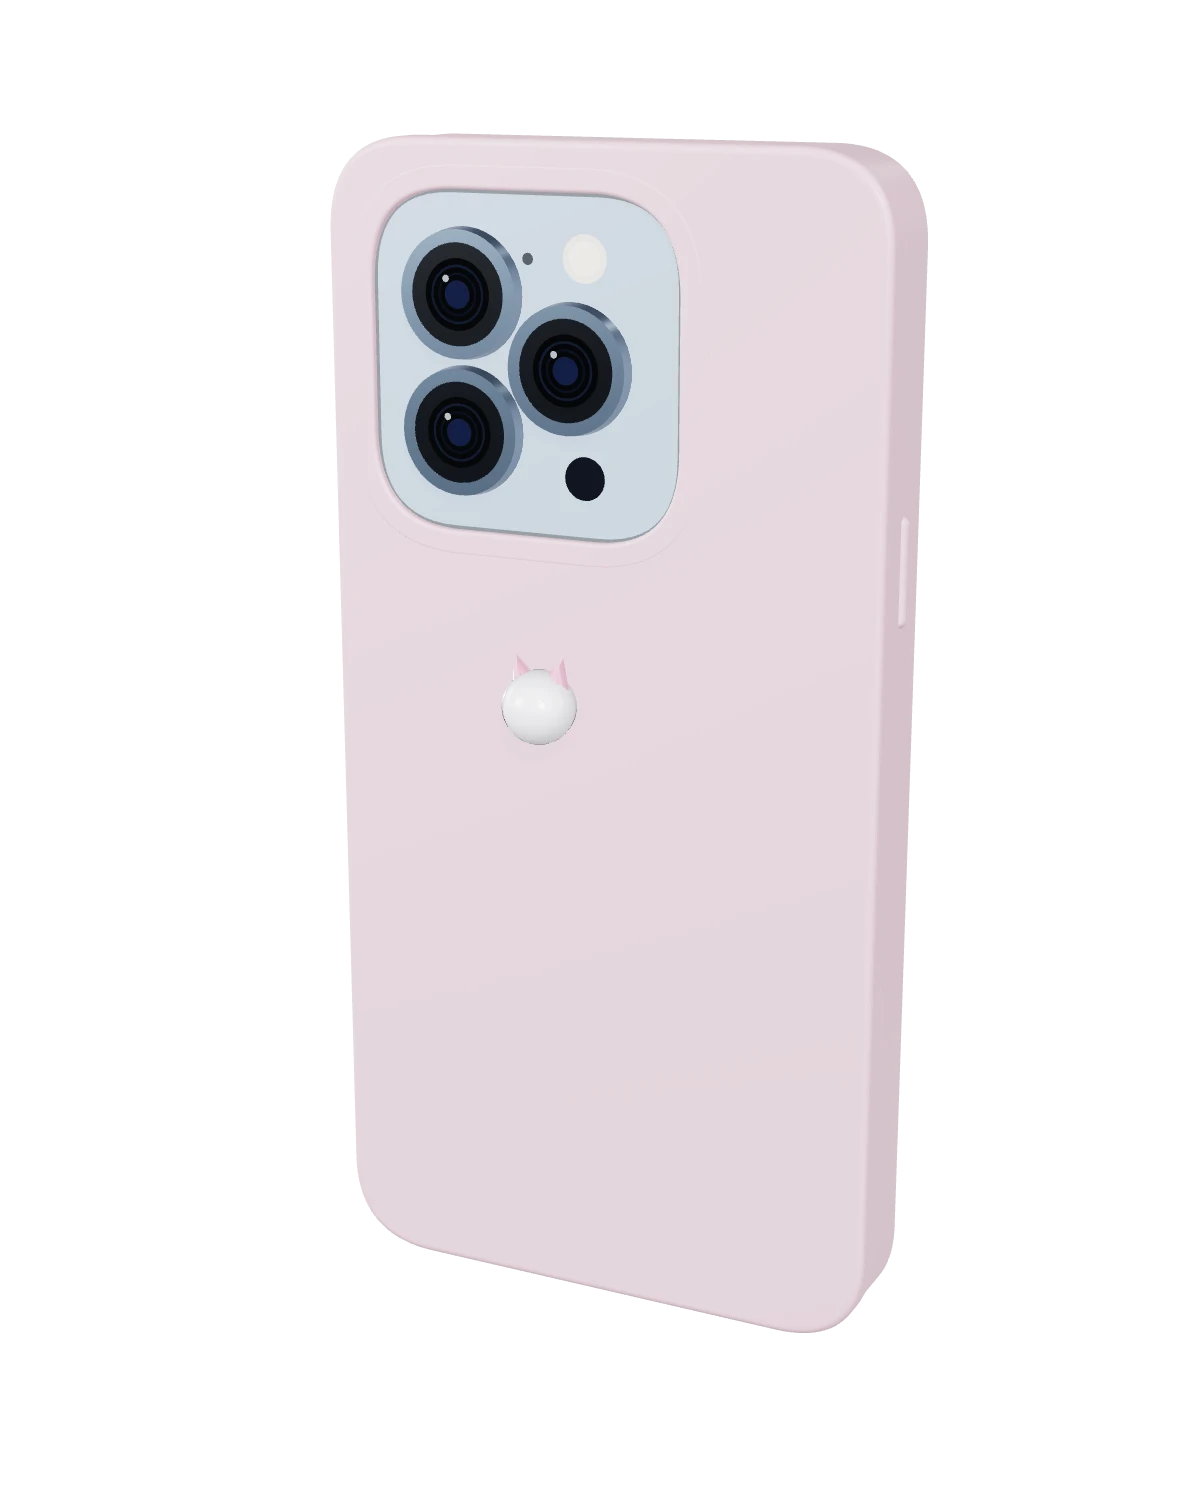
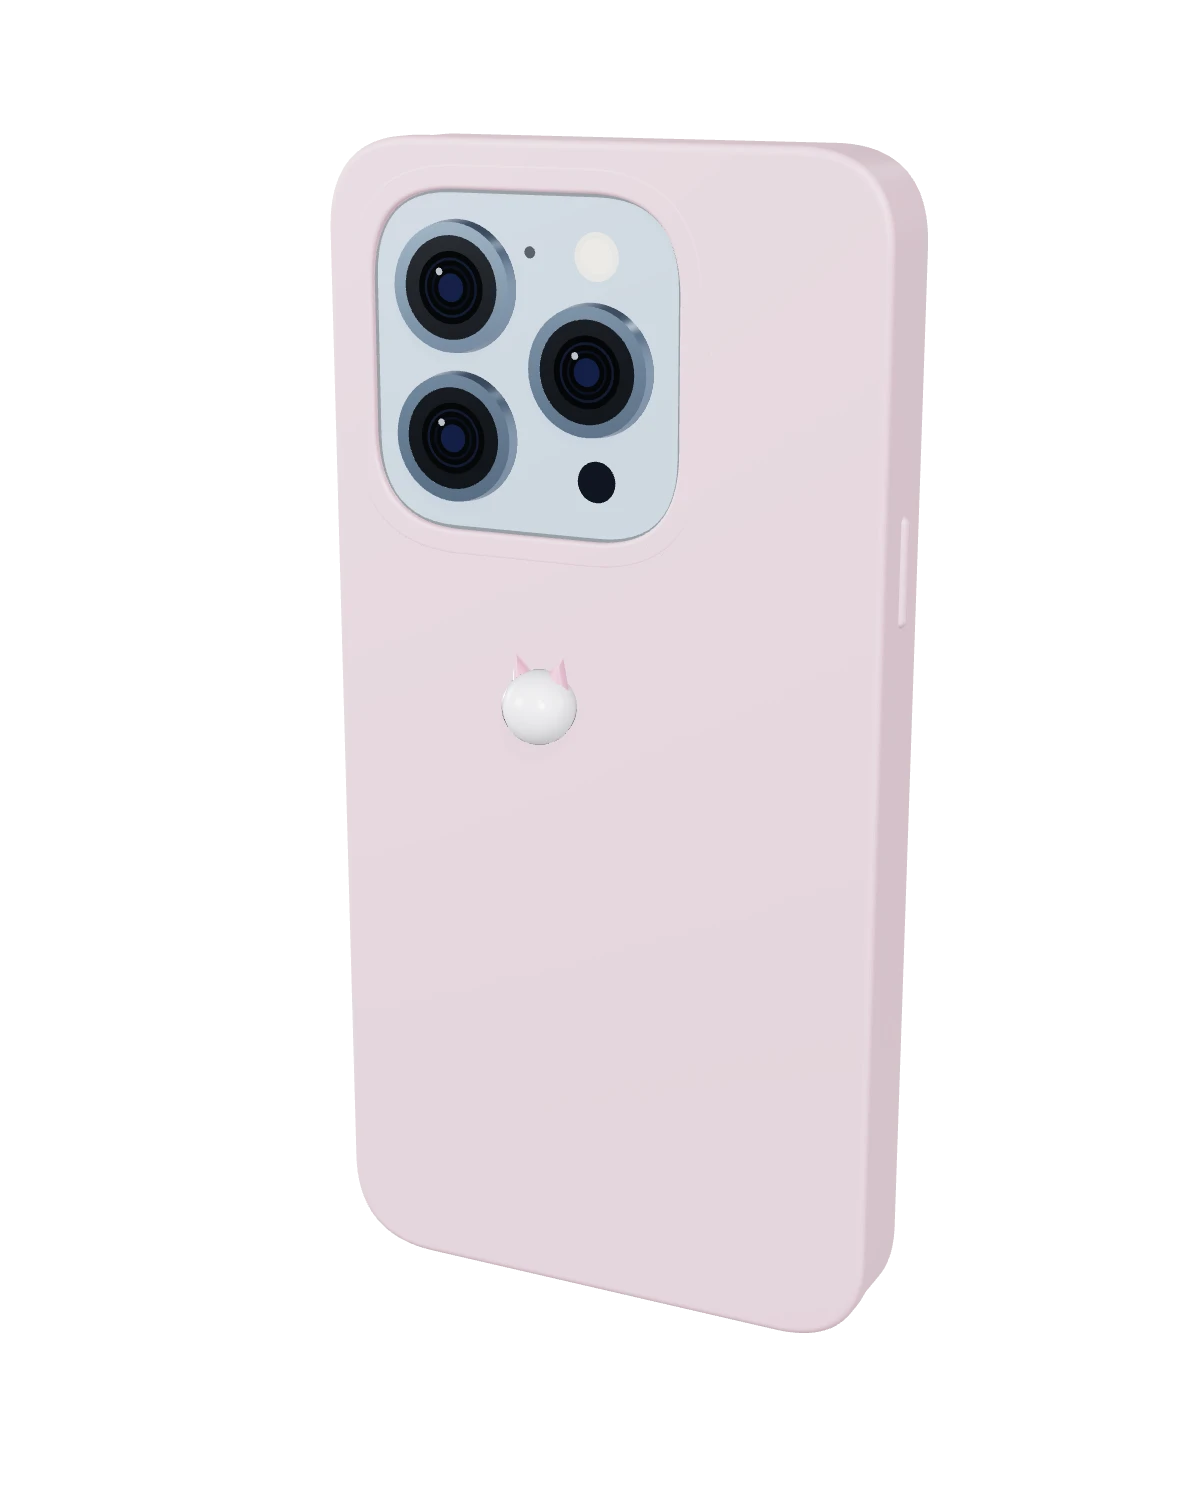
Alineacion exacta de los modulos de camara
- Duo diagonal con centros a 12,8 mm por eje (canal visible entre aros)
  y microfono entre el flash y la lente inferior
- Triangulo Pro a +-9,4 mm con flash sobre la lente derecha, LiDAR bajo
  ella y microfono arriba al centro, como en el telefono
- Pastillas del 16 y del 17 con centros a 17,8 mm y flash a la altura
  del canal entre lentes
- Barra del 17 Pro con el triangulo apurando los bordes de la barra
- Renders regenerados con la alineacion final

Claude-Session: https://claude.ai/code/session_01YFBaP4QLKXGjZh9jKHsT8r

Changed region(s): [[0.3083, 0.1227, 0.555, 0.3373]]

diff --git a/src/assets-procedural/moduleLayout.ts b/src/assets-procedural/moduleLayout.ts
@@ -1,16 +1,18 @@
 /**
  * Disposicion del modulo de camara por forma (SS6.2) en MILIMETROS REALES.
  * La zona del seed es el recorte de la funda (con holgura); el grupo de
- * lentes se ancla a ella pero cada medida es absoluta, tomada del hardware:
+ * lentes se ancla a ella pero cada medida (radios, separaciones entre
+ * centros y posiciones de flash/LiDAR/microfono) es absoluta, tomada de los
+ * planos dimensionales que usan los fabricantes de fundas:
  *
- * - Duo diagonal (13-15): aros de 14,2 mm casi tocandose en diagonal
- *   (centros a 10,4 mm en x e y), flash de 6,6 mm arriba a la derecha
- * - Triple Pro (13 Pro-16 Pro): aros de 16 mm en triangulo compacto
- *   (columna izquierda a 17,2 mm; lente derecha a 15 mm de la columna),
- *   flash arriba a la derecha y LiDAR debajo
- * - Pastilla del 16: aros de 14,5 mm apilados a 16,4 mm entre centros
- * - Barra del 17 Pro: mismo triangulo con aros de 16,5 mm a la izquierda,
- *   flash y LiDAR en el extremo derecho
+ * - Duo diagonal (13-15): aros de 14,8 mm con centros a 12,8 mm en x e y
+ *   (queda un canal visible entre aros), flash arriba a la derecha
+ * - Triple Pro (13 Pro-16 Pro): aros de 16,1 mm en triangulo con columna
+ *   izquierda a +-9,4 mm y lente derecha a +9,4 mm; flash sobre la lente
+ *   derecha, LiDAR bajo ella y microfono arriba al centro
+ * - Pastilla del 16/17: aros de 14,5 mm con centros a 17,8 mm
+ * - Barra del 17 Pro: triangulo de aros de 16,5 mm pegado a los bordes de
+ *   la barra, flash y LiDAR al extremo derecho
  * - Barra baja del 17 Air: un solo aro de 14,5 mm a 13 mm del borde
  * - 16e: aro de 12,5 mm con el flash debajo
  *
@@ -42,51 +44,52 @@ export function moduleLayout(forma: string, zone: ModuleZone): ModuleLayout {
   const cy = zone.y + zone.h / 2;
   switch (forma) {
     case 'cuadrado-triple': {
-      // Triangulo Pro real: gran angular arriba-izq, tele abajo-izq,
-      // ultra gran angular a la derecha, todos con aro de 16 mm
-      const r = 8;
+      // Triangulo Pro real: columna izquierda (gran angular y tele) y ultra
+      // gran angular a la derecha, con el canal entre aros del telefono real
+      const r = 8.05;
       return {
         lenses: [
-          { x: cx - 8.5, y: cy - 8.6, r },
-          { x: cx - 8.5, y: cy + 8.6, r },
-          { x: cx + 6.5, y: cy, r },
+          { x: cx - 9.4, y: cy - 9.4, r },
+          { x: cx - 9.4, y: cy + 9.4, r },
+          { x: cx + 9.4, y: cy, r },
         ],
-        flash: { x: cx + 8.3, y: cy - 13.5, r: 3 },
-        lidar: { x: cx + 8.3, y: cy + 13.5, r: 2.75 },
-        mic: { x: cx + 0.5, y: cy - 13.2, r: 0.75 },
+        flash: { x: cx + 9.9, y: cy - 13.8, r: 3 },
+        lidar: { x: cx + 9.9, y: cy + 13.8, r: 2.6 },
+        mic: { x: cx + 0.8, y: cy - 14, r: 0.75 },
       };
     }
     case 'cuadrado-diagonal': {
-      // Duo diagonal 13-15: aros de 14,2 mm casi tocandose en la diagonal
-      const r = 7.1;
+      // Duo diagonal 13-15: centros a 12,8 mm en cada eje, flash arriba a
+      // la derecha y microfono entre el flash y la lente inferior
+      const r = 7.4;
       return {
         lenses: [
-          { x: cx - 5.2, y: cy - 5.2, r },
-          { x: cx + 5.2, y: cy + 5.2, r },
+          { x: cx - 6.4, y: cy - 6.4, r },
+          { x: cx + 6.4, y: cy + 6.4, r },
         ],
-        flash: { x: cx + 9.8, y: cy - 9.2, r: 3.3 },
-        mic: { x: cx + 9.8, y: cy - 1.8, r: 0.75 },
+        flash: { x: cx + 8.7, y: cy - 9.2, r: 3.3 },
+        mic: { x: cx + 9.4, y: cy - 1.7, r: 0.75 },
       };
     }
     case 'barra-horizontal': {
       if (zone.h <= 28) {
         // Barra baja del 17 Air: un solo aro de 14,5 mm a 13 mm del borde
-        // izquierdo y el flash en el extremo derecho
+        // izquierdo y el flash centrado en el extremo derecho
         return {
           lenses: [{ x: zone.x + 13, y: cy, r: 7.25 }],
           flash: { x: zone.x + zone.w - 9, y: cy, r: 2.9 },
           mic: { x: zone.x + zone.w - 18, y: cy, r: 0.75 },
         };
       }
-      // Barra del 17 Pro: triangulo Pro con aros de 16,5 mm a la izquierda
-      // (separado de la esquina redondeada), flash + LiDAR + microfono hacia
-      // el extremo derecho
+      // Barra del 17 Pro: triangulo de aros de 16,5 mm que apura los bordes
+      // de la barra como en el telefono real; flash + LiDAR + microfono
+      // hacia el extremo derecho
       const r = 8.25;
       return {
         lenses: [
-          { x: zone.x + 13, y: cy - 8.5, r },
-          { x: zone.x + 13, y: cy + 8.5, r },
-          { x: zone.x + 28.5, y: cy, r },
+          { x: zone.x + 13, y: cy - 8.4, r },
+          { x: zone.x + 13, y: cy + 8.4, r },
+          { x: zone.x + 29.5, y: cy, r },
         ],
         flash: { x: zone.x + zone.w - 10, y: cy - 8, r: 3 },
         lidar: { x: zone.x + zone.w - 10, y: cy + 8, r: 2.8 },
@@ -94,30 +97,29 @@ export function moduleLayout(forma: string, zone: ModuleZone): ModuleLayout {
       };
     }
     case 'vertical-doble': {
-      // iPhone 17: pastilla vertical de aros de 14,5 mm centrada en la zona,
-      // flash a la derecha de la lente superior
+      // iPhone 17: pastilla vertical centrada, flash a la derecha a la
+      // altura del canal entre lentes
       const r = 7.25;
       return {
         lenses: [
-          { x: cx, y: cy - 8.2, r },
-          { x: cx, y: cy + 8.2, r },
+          { x: cx, y: cy - 8.9, r },
+          { x: cx, y: cy + 8.9, r },
         ],
-        flash: { x: cx + 11.5, y: cy - 8.2, r: 3.1 },
-        mic: { x: cx + 11.5, y: cy, r: 0.75 },
+        flash: { x: cx + 11.5, y: cy - 4, r: 3.1 },
+        mic: { x: cx + 11.5, y: cy + 3, r: 0.75 },
       };
     }
     case 'vertical': {
-      // iPhone 16: pastilla de aros de 14,5 mm a 16,4 mm entre centros en la
-      // mitad izquierda del recorte y flash a su derecha, como en la funda
-      // real (el recorte de Apple incluye el flash)
+      // iPhone 16: pastilla en la mitad izquierda del recorte (la funda
+      // oficial incluye el flash a su derecha, a la altura del canal)
       const r = 7.25;
       return {
         lenses: [
-          { x: zone.x + 13, y: cy - 8.2, r },
-          { x: zone.x + 13, y: cy + 8.2, r },
+          { x: zone.x + 13, y: cy - 8.9, r },
+          { x: zone.x + 13, y: cy + 8.9, r },
         ],
-        flash: { x: zone.x + 29, y: cy - 8.2, r: 3.1 },
-        mic: { x: zone.x + 29, y: cy + 0.5, r: 0.75 },
+        flash: { x: zone.x + 29, y: cy - 4, r: 3.1 },
+        mic: { x: zone.x + 29, y: cy + 3, r: 0.75 },
       };
     }
     case 'camara-unica-vertical': {
